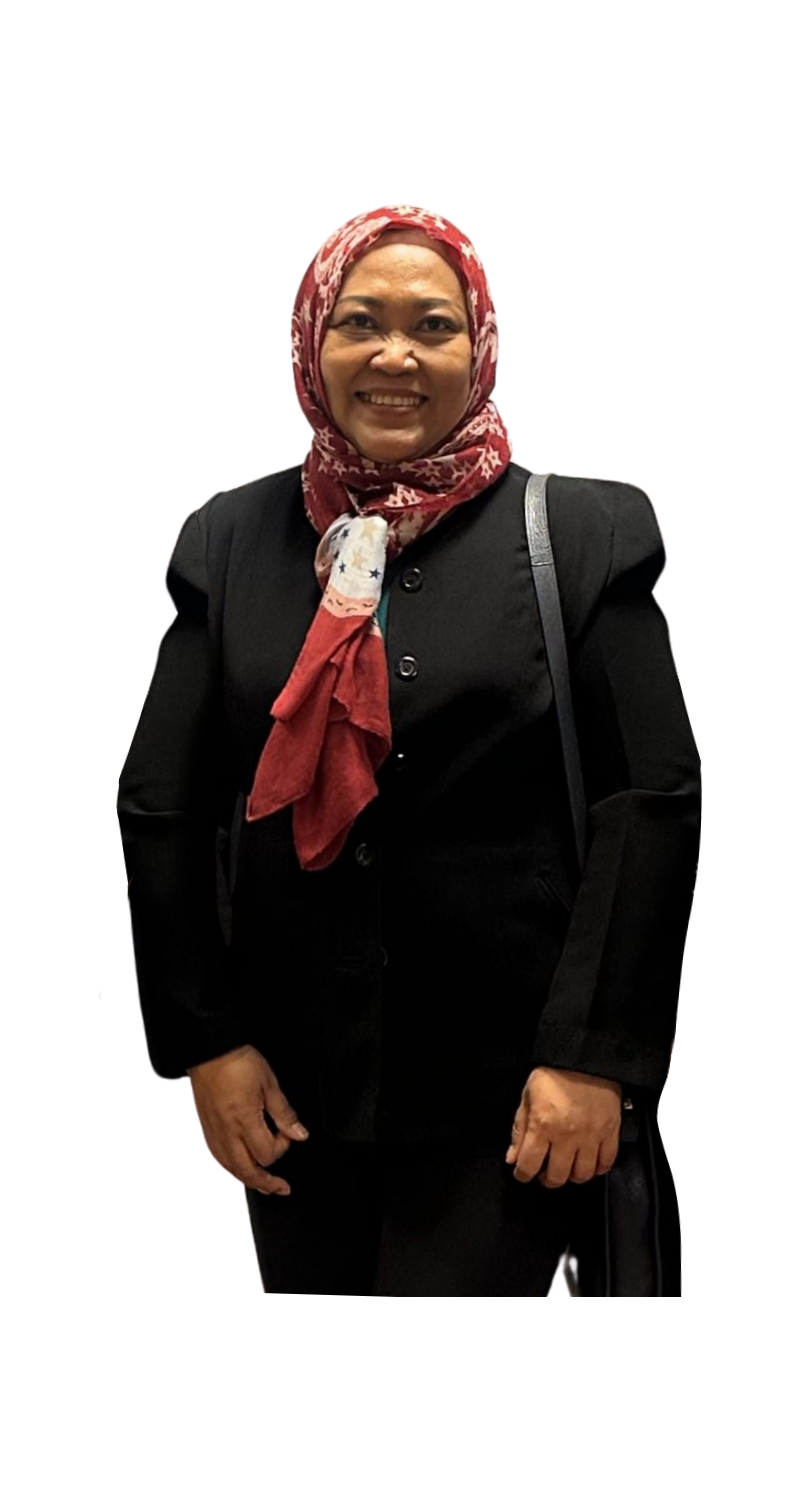
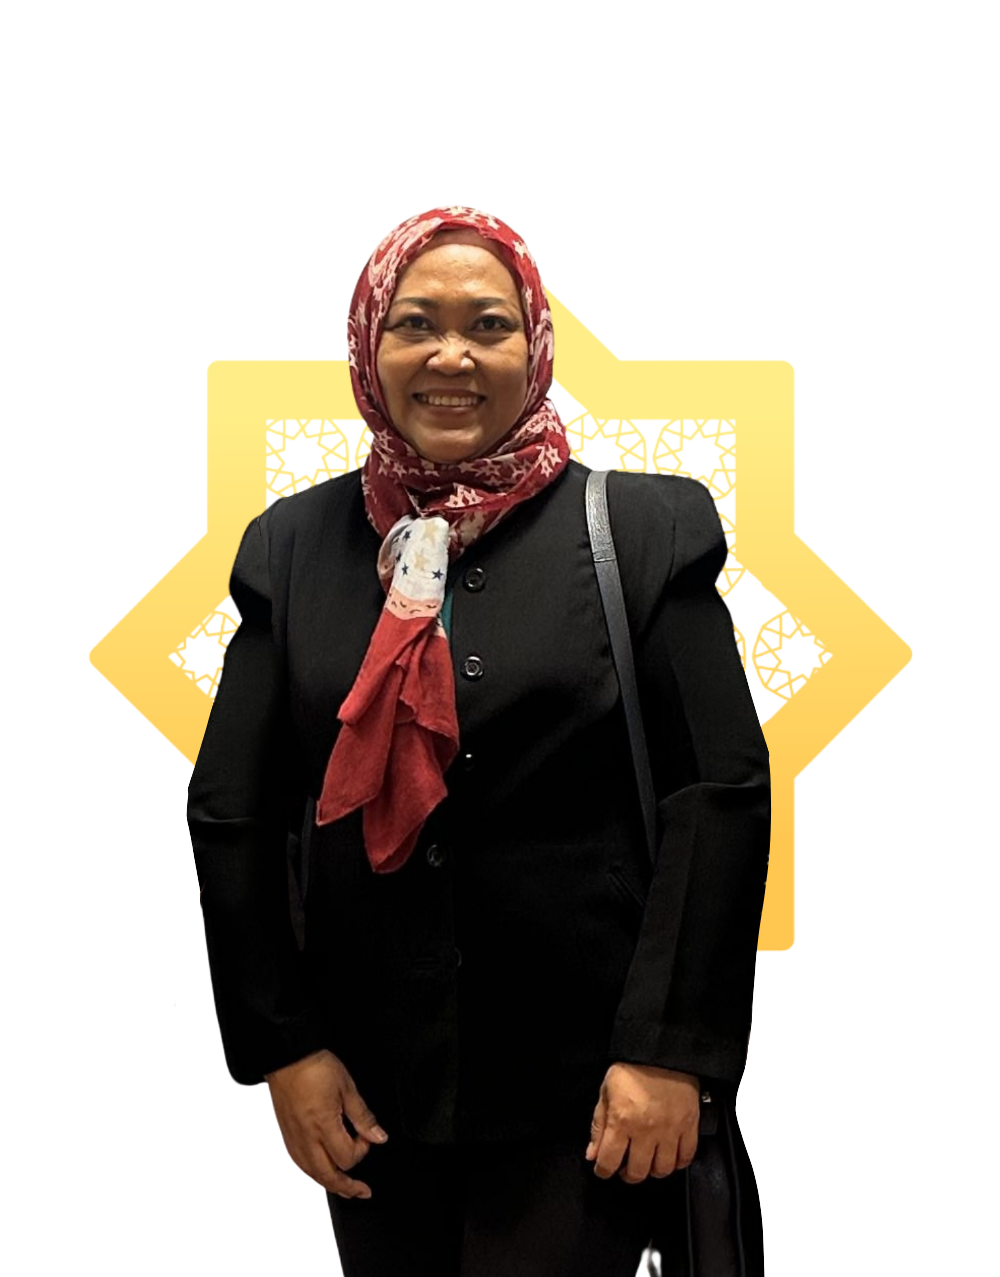
add little changes

diff --git a/Components/profil-page-comp/Hero.tsx b/Components/profil-page-comp/Hero.tsx
@@ -5,31 +5,23 @@ import React from 'react'
 const Hero = () => {
   return (
     <>
-        <section className='max-container padding-container bg-[#ffc750]'>
-            <div className='grid grid-cols-1 md:grid-cols-2 items-center'>
+        <section className="max-container padding-container bg-[url('/images/bg-aboutus.png')] bg-center bg-no-repeat">
+            <div className='grid grid-cols-1 md:grid-cols-2 items-center'> 
 
-                {/* grid Hero Kiri */}
-                <div className='flexCenter md:flexStart'>
-                    <Image src={'/images/pemilik.png'} alt='pemilik' width={475} height={475} className='h-auto'/>        
-                </div>    
-
-                {/* Grid Hero Kanan */}
-                <div className='text-center items-center my-5 lg:my-0'>
-                    <h3 className='font-bold text-lg lg:text-3xl text-white tracking-wide'>
+                {/* Grid Hero Kiri */}
+                <div className='text-center items-center my-5 lg:my-0 order-2 md:order-1'>
+                    <h3 className='font-bold text-lg lg:text-3xl text-[#89060b] tracking-wide'>
                         <span className='text-[#f14310]'>CEO</span> at Albayt Solo
                     </h3>
-                    <h1 className='font-bold text-4xl lg:text-7xl text-white mt-1 mb-2 lg:mt-3 lg:mb-2 whitespace-nowrap'>
+                    <h1 className='font-bold text-4xl lg:text-7xl text-[#89060b] mt-1 mb-2 lg:mt-3 lg:mb-2 whitespace-nowrap'>
                         <span className='text-[#f14310]'>Nur</span> Hidayati
                     </h1>
-                    <Link href={'/'} target='blank'>
-                        <div className='flexCenter mt-4 lg:mt-8'>
-                            <div className='flex bg-white items-center py-1 px-2 lg:py-2 lg:px-4 rounded-xl shadow-lg gap-2 duration-200 hover:-translate-y-1'>
-                                <svg xmlns="http://www.w3.org/2000/svg" width="24" height="24" viewBox="0 0 24 24" className='fill-[#f14310]'><path d="M12 2.163c3.204 0 3.584.012 4.85.07 3.252.148 4.771 1.691 4.919 4.919.058 1.265.069 1.645.069 4.849 0 3.205-.012 3.584-.069 4.849-.149 3.225-1.664 4.771-4.919 4.919-1.266.058-1.644.07-4.85.07-3.204 0-3.584-.012-4.849-.07-3.26-.149-4.771-1.699-4.919-4.92-.058-1.265-.07-1.644-.07-4.849 0-3.204.013-3.583.07-4.849.149-3.227 1.664-4.771 4.919-4.919 1.266-.057 1.645-.069 4.849-.069zm0-2.163c-3.259 0-3.667.014-4.947.072-4.358.2-6.78 2.618-6.98 6.98-.059 1.281-.073 1.689-.073 4.948 0 3.259.014 3.668.072 4.948.2 4.358 2.618 6.78 6.98 6.98 1.281.058 1.689.072 4.948.072 3.259 0 3.668-.014 4.948-.072 4.354-.2 6.782-2.618 6.979-6.98.059-1.28.073-1.689.073-4.948 0-3.259-.014-3.667-.072-4.947-.196-4.354-2.617-6.78-6.979-6.98-1.281-.059-1.69-.073-4.949-.073zm0 5.838c-3.403 0-6.162 2.759-6.162 6.162s2.759 6.163 6.162 6.163 6.162-2.759 6.162-6.163c0-3.403-2.759-6.162-6.162-6.162zm0 10.162c-2.209 0-4-1.79-4-4 0-2.209 1.791-4 4-4s4 1.791 4 4c0 2.21-1.791 4-4 4zm6.406-11.845c-.796 0-1.441.645-1.441 1.44s.645 1.44 1.441 1.44c.795 0 1.439-.645 1.439-1.44s-.644-1.44-1.439-1.44z"/></svg>
-                                <p className='text-[#f14310] font-bold text-[15px] lg:text-lg'>@nining_albayt</p>
-                            </div>
-                        </div>
-                    </Link>
                 </div>
+
+                {/* Grid Kanan */}
+                <div className='flexCenter order-1 md:order-2'>
+                    <Image src={'/images/foto-ceo.png'} alt='pemilik' width={800} height={800} className='h-[350px] md:h-[500px] w-auto'/>        
+                </div>   
             </div>
         </section>
     </>
